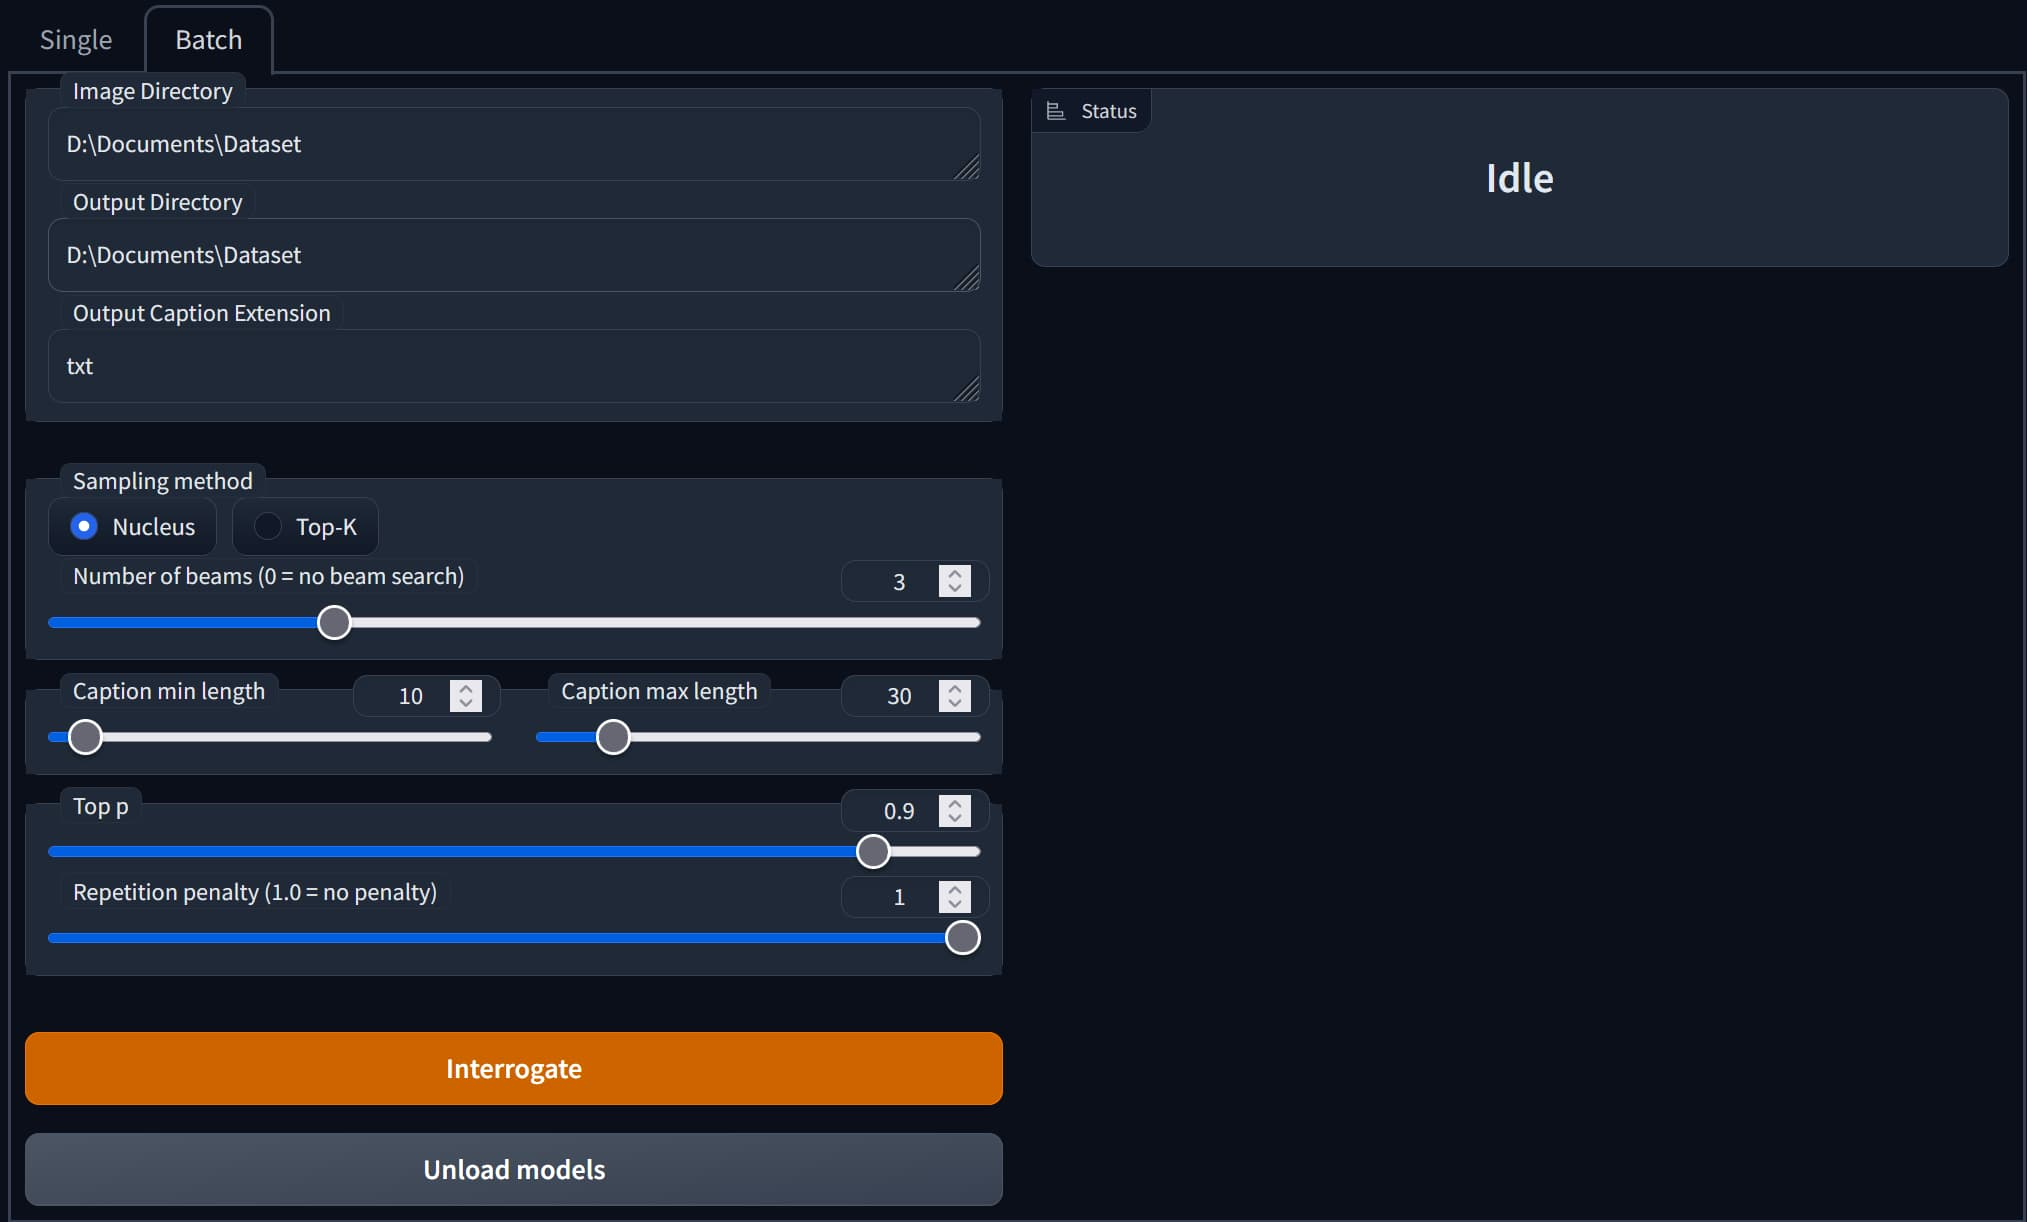
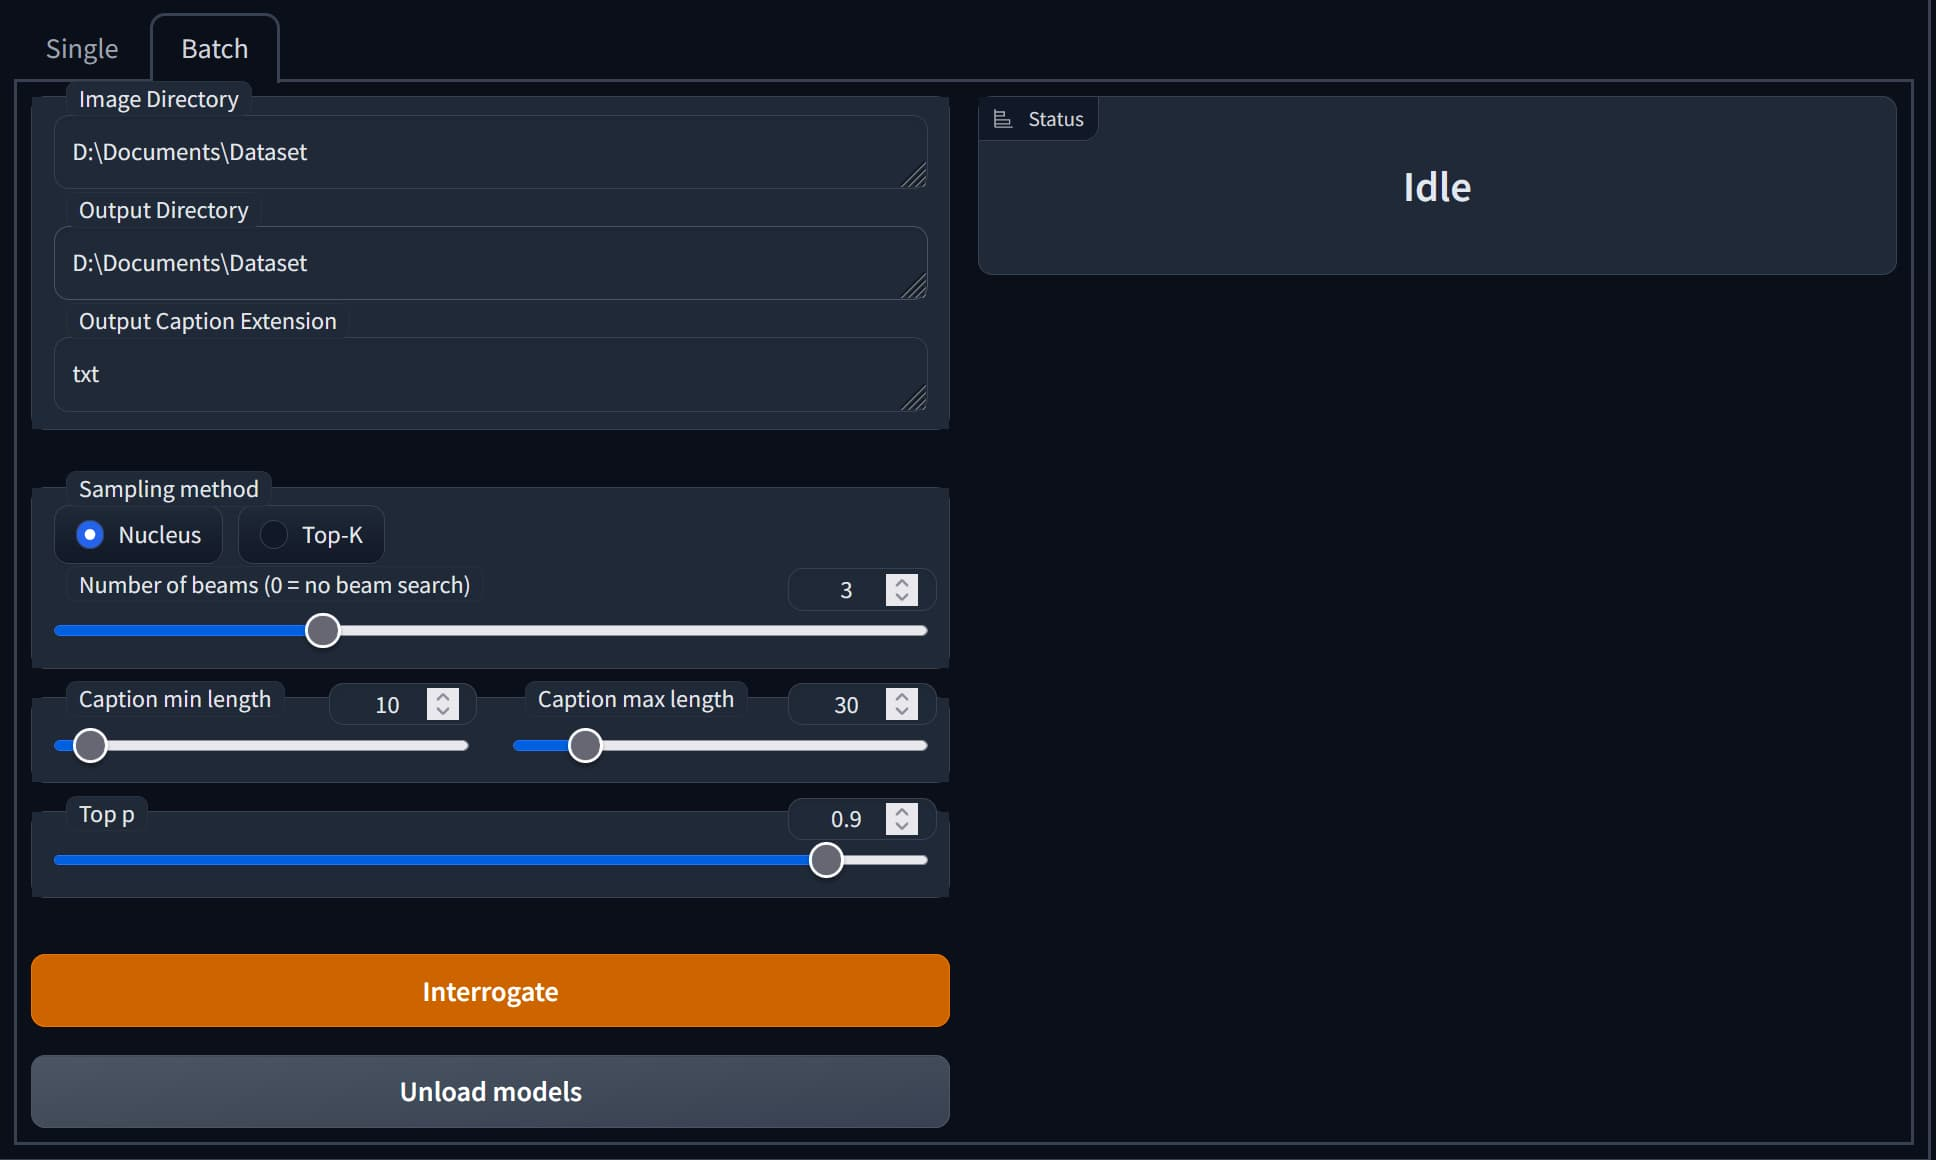
chore: removed unused parameter

Changed region(s): [[0.0, 0.0, 1.0, 1.0], [0.7128, 0.1241, 0.7748, 0.1862]]

diff --git a/scripts/main.py b/scripts/main.py
@@ -58,7 +58,7 @@ def generate_caption(
         caption_max_length,
         caption_min_length,
         top_p,
-        repitition_penalty,
+        # repitition_penalty,
     ):
     model_name = "coco"
     model_check(model_name)
@@ -70,7 +70,7 @@ def generate_caption(
         max_length=caption_max_length,
         min_length=caption_min_length,
         top_p=top_p,
-        repetition_penalty=repitition_penalty,
+        # repetition_penalty=repitition_penalty,
     )
     caption = captions[0]
     print(caption)
@@ -92,7 +92,7 @@ def batch_captioning(
     caption_max_length, 
     caption_min_length, 
     top_p, 
-    repitition_penalty, 
+    # repitition_penalty, 
 ):
     print("Batch captioning started")
     try:
@@ -126,7 +126,7 @@ def batch_captioning(
                 caption_max_length=caption_max_length,
                 caption_min_length=caption_min_length,
                 top_p=top_p,
-                repitition_penalty=repitition_penalty,
+                # repitition_penalty=repitition_penalty,
             )
 
             # without ext
@@ -216,14 +216,14 @@ def on_ui_tabs():
                                 value=0.9,
                                 interactive=True,
                             )
-                            single_repetition_penalty_slider = gr.Slider(
-                                label="Repetition penalty (1.0 = no penalty)",
-                                minimum=0.0,
-                                maximum=1.0,
-                                step=0.01,
-                                value=1.0,
-                                interactive=True,
-                            )
+                            # single_repetition_penalty_slider = gr.Slider(
+                            #     label="Repetition penalty (1.0 = no penalty)",
+                            #     minimum=0.0,
+                            #     maximum=1.0,
+                            #     step=0.01,
+                            #     value=1.0,
+                            #     interactive=True,
+                            # )
 
                             single_start_btn = gr.Button(
                                 value="Interrogate", variant="primary"
@@ -317,14 +317,14 @@ def on_ui_tabs():
                                 value=0.9,
                                 interactive=True,
                             )
-                            batch_repetition_penalty_slider = gr.Slider(
-                                label="Repetition penalty (1.0 = no penalty)",
-                                minimum=0.0,
-                                maximum=1.0,
-                                step=0.01,
-                                value=1.0,
-                                interactive=True,
-                            )
+                            # batch_repetition_penalty_slider = gr.Slider(
+                            #     label="Repetition penalty (1.0 = no penalty)",
+                            #     minimum=0.0,
+                            #     maximum=1.0,
+                            #     step=0.01,
+                            #     value=1.0,
+                            #     interactive=True,
+                            # )
 
                             gr.Markdown("")
 
@@ -349,7 +349,7 @@ def on_ui_tabs():
                 single_caption_max_length_slider, 
                 single_caption_min_length_slider, 
                 single_top_p_slider, 
-                single_repetition_penalty_slider
+                # single_repetition_penalty_slider
             ],
             outputs=single_caption_result,
         )
@@ -363,7 +363,7 @@ def on_ui_tabs():
                 single_caption_max_length_slider, 
                 single_caption_min_length_slider, 
                 single_top_p_slider, 
-                single_repetition_penalty_slider
+                # single_repetition_penalty_slider
             ],
             outputs=single_caption_result,
         )
@@ -385,7 +385,7 @@ def on_ui_tabs():
                 batch_caption_max_length_slider,
                 batch_caption_min_length_slider,
                 batch_top_p_slider,
-                batch_repetition_penalty_slider,
+                # batch_repetition_penalty_slider,
             ],
             outputs=[status_block],
         )

diff --git a/README.md b/README.md
@@ -15,14 +15,14 @@ BLIP2 captioning tool as an extension of AUTOMATIC's WebUI.
 
 # Parameters
 
-| Name               | Values               | Default   | Description                                                                                    |
-| ------------------ | -------------------- | --------- | ---------------------------------------------------------------------------------------------- |
-| Sampling method    | `Nucleus` or `Top-K` | `Nucleus` | I don't know the difference. sorry.                                                            |
-| Number of beams    | ≧ 0                  | `3`       | Number of beams for beam search. 1 means no beam search.                                       |
-| Caption min length | ≧ 0                  | 10        | The minimum length of the caption to be generated. If very large, caption accuracy may degrade |
-| Caption max length | ≧ Caption min length | 30        | The minimum length of the caption to be generated.                                             |
-| Top P              | ≧ 0.0                | 0.9       | The cumulative probability for nucleus sampling.                                               |
-| Repetition penalty | 0.0~1.0              | 1.0       | The parameter for repetition penalty. 1.0 means no penalty.                                    |
+| Name               | Values                 | Default   | Description                                                                                    |
+| ------------------ | ---------------------- | --------- | ---------------------------------------------------------------------------------------------- |
+| Sampling method    | `Nucleus` or `Top-K`   | `Nucleus` | I don't know the difference. sorry.                                                            |
+| Number of beams    | ≧ 0                    | `3`       | Number of beams for beam search. 1 means no beam search.                                       |
+| Caption min length | ≧ 0                    | 10        | The minimum length of the caption to be generated. If very large, caption accuracy may degrade |
+| Caption max length | ≧ Caption min length   | 30        | The minimum length of the caption to be generated.                                             |
+| Top P              | ≧ 0.0                  | 0.9       | The cumulative probability for nucleus sampling.                                               |
+| <!--               | ~~Repetition penalty~~ | 0.0~1.0   | 1.0                                                                                            | The parameter for repetition penalty. 1.0 means no penalty. | --> |
 
 # License
 This software includes the following third-party libraries:
